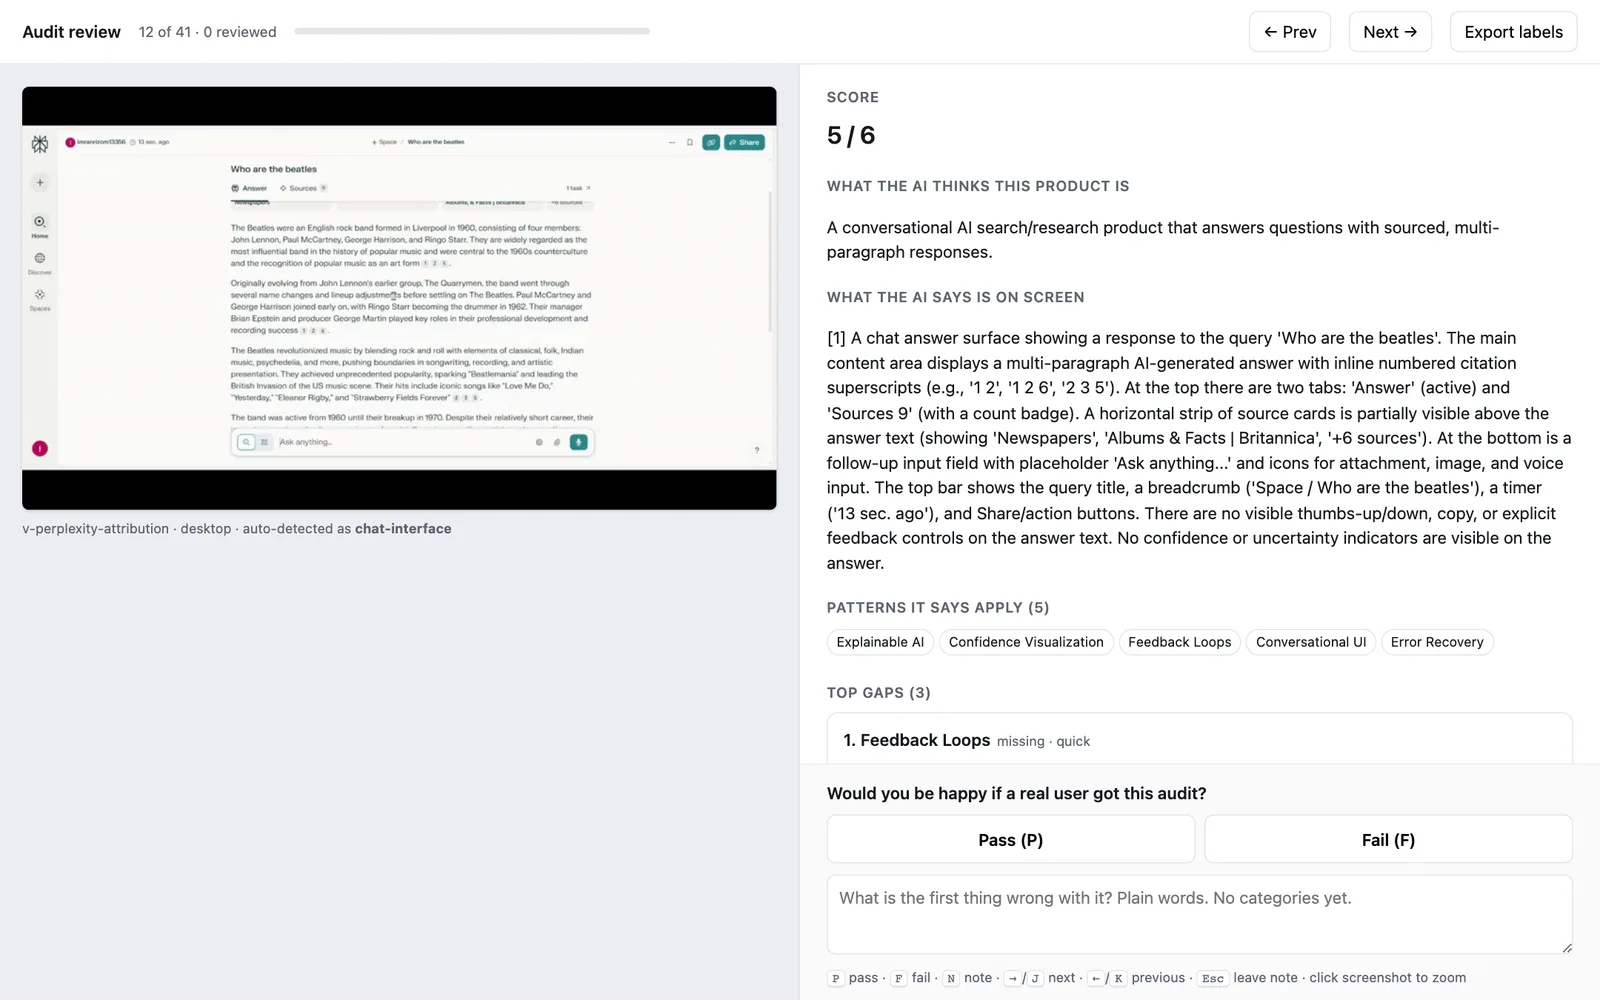
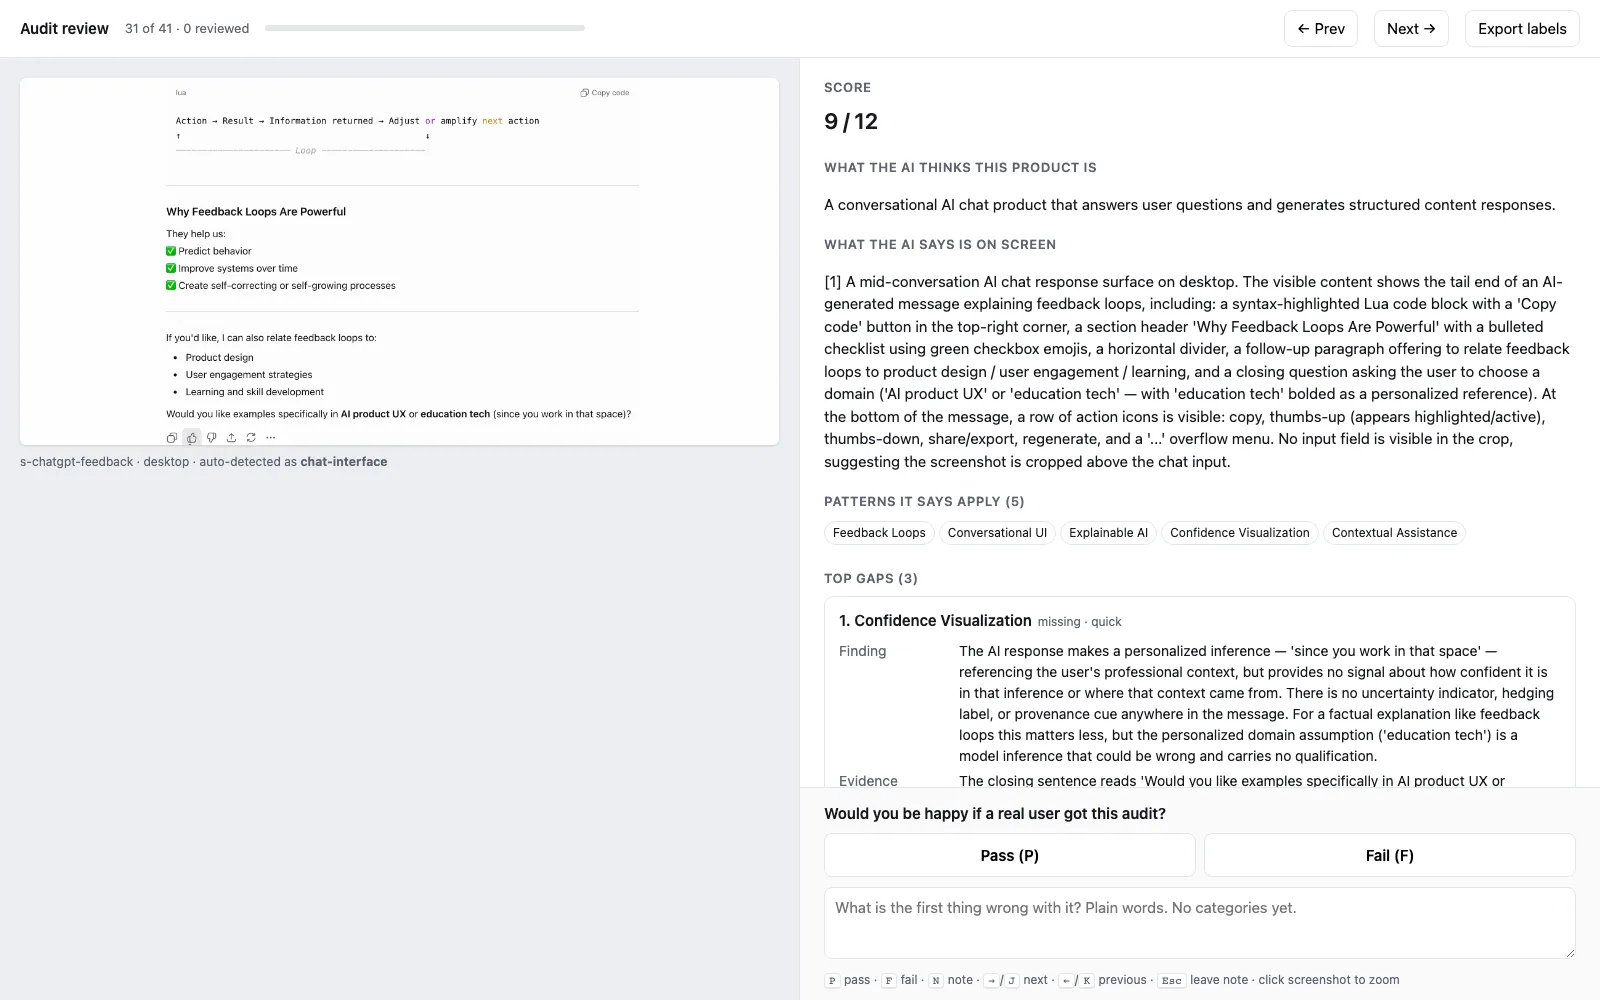
Evals course: correct study cost, replace review screenshot
The study cost about $30 in API usage, not $15 (audit runs plus
AI-reviewer runs). The review-page figure showed a personal account handle
in the recorded Perplexity screen; re-rendered on the ChatGPT example and
updated the alt text to match.

diff --git a/src/data/guides.ts b/src/data/guides.ts
@@ -10476,7 +10476,7 @@ Audience: Early-stage VCs in the design-tools space.`,
           },
           {
             "type": "text",
-            "content": "Those numbers are small on purpose. A study of 41 examples is enough to learn the method and find the biggest problems. The whole study cost about $15 in AI usage. The hard part was judgement, which is the part designers and PMs are already trained for."
+            "content": "Those numbers are small on purpose. A study of 41 examples is enough to learn the method and find the biggest problems. The whole study cost about $30 in AI usage. The hard part was judgement, which is the part designers and PMs are already trained for."
           },
           {
             "type": "heading",
@@ -10602,7 +10602,7 @@ Audience: Early-stage VCs in the design-tools space.`,
           {
             "type": "image",
             "src": "/images/guides/ai-evals-for-designers/review-page.webp",
-            "alt": "The study's review page. On the left, a screenshot of a Perplexity answer with citations. On the right, the audit: a score of 5 of 6, what the AI thinks the product is, what it says is on screen, five patterns it says apply, and the start of its top gaps. At the bottom sits one question, would you be happy if a real user got this audit, with Pass and Fail buttons and a note field.",
+            "alt": "The study's review page. On the left, a screenshot of a ChatGPT answer about feedback loops. On the right, the audit: a score of 9 of 12, what the AI thinks the product is, what it says is on screen, five patterns it says apply, and the start of its top gaps. At the bottom sits one question, would you be happy if a real user got this audit, with Pass and Fail buttons and a note field.",
             "label": "The review page from the study: screenshot on the left, the audit as a user would read it on the right, one question and two buttons at the bottom."
           },
           {
